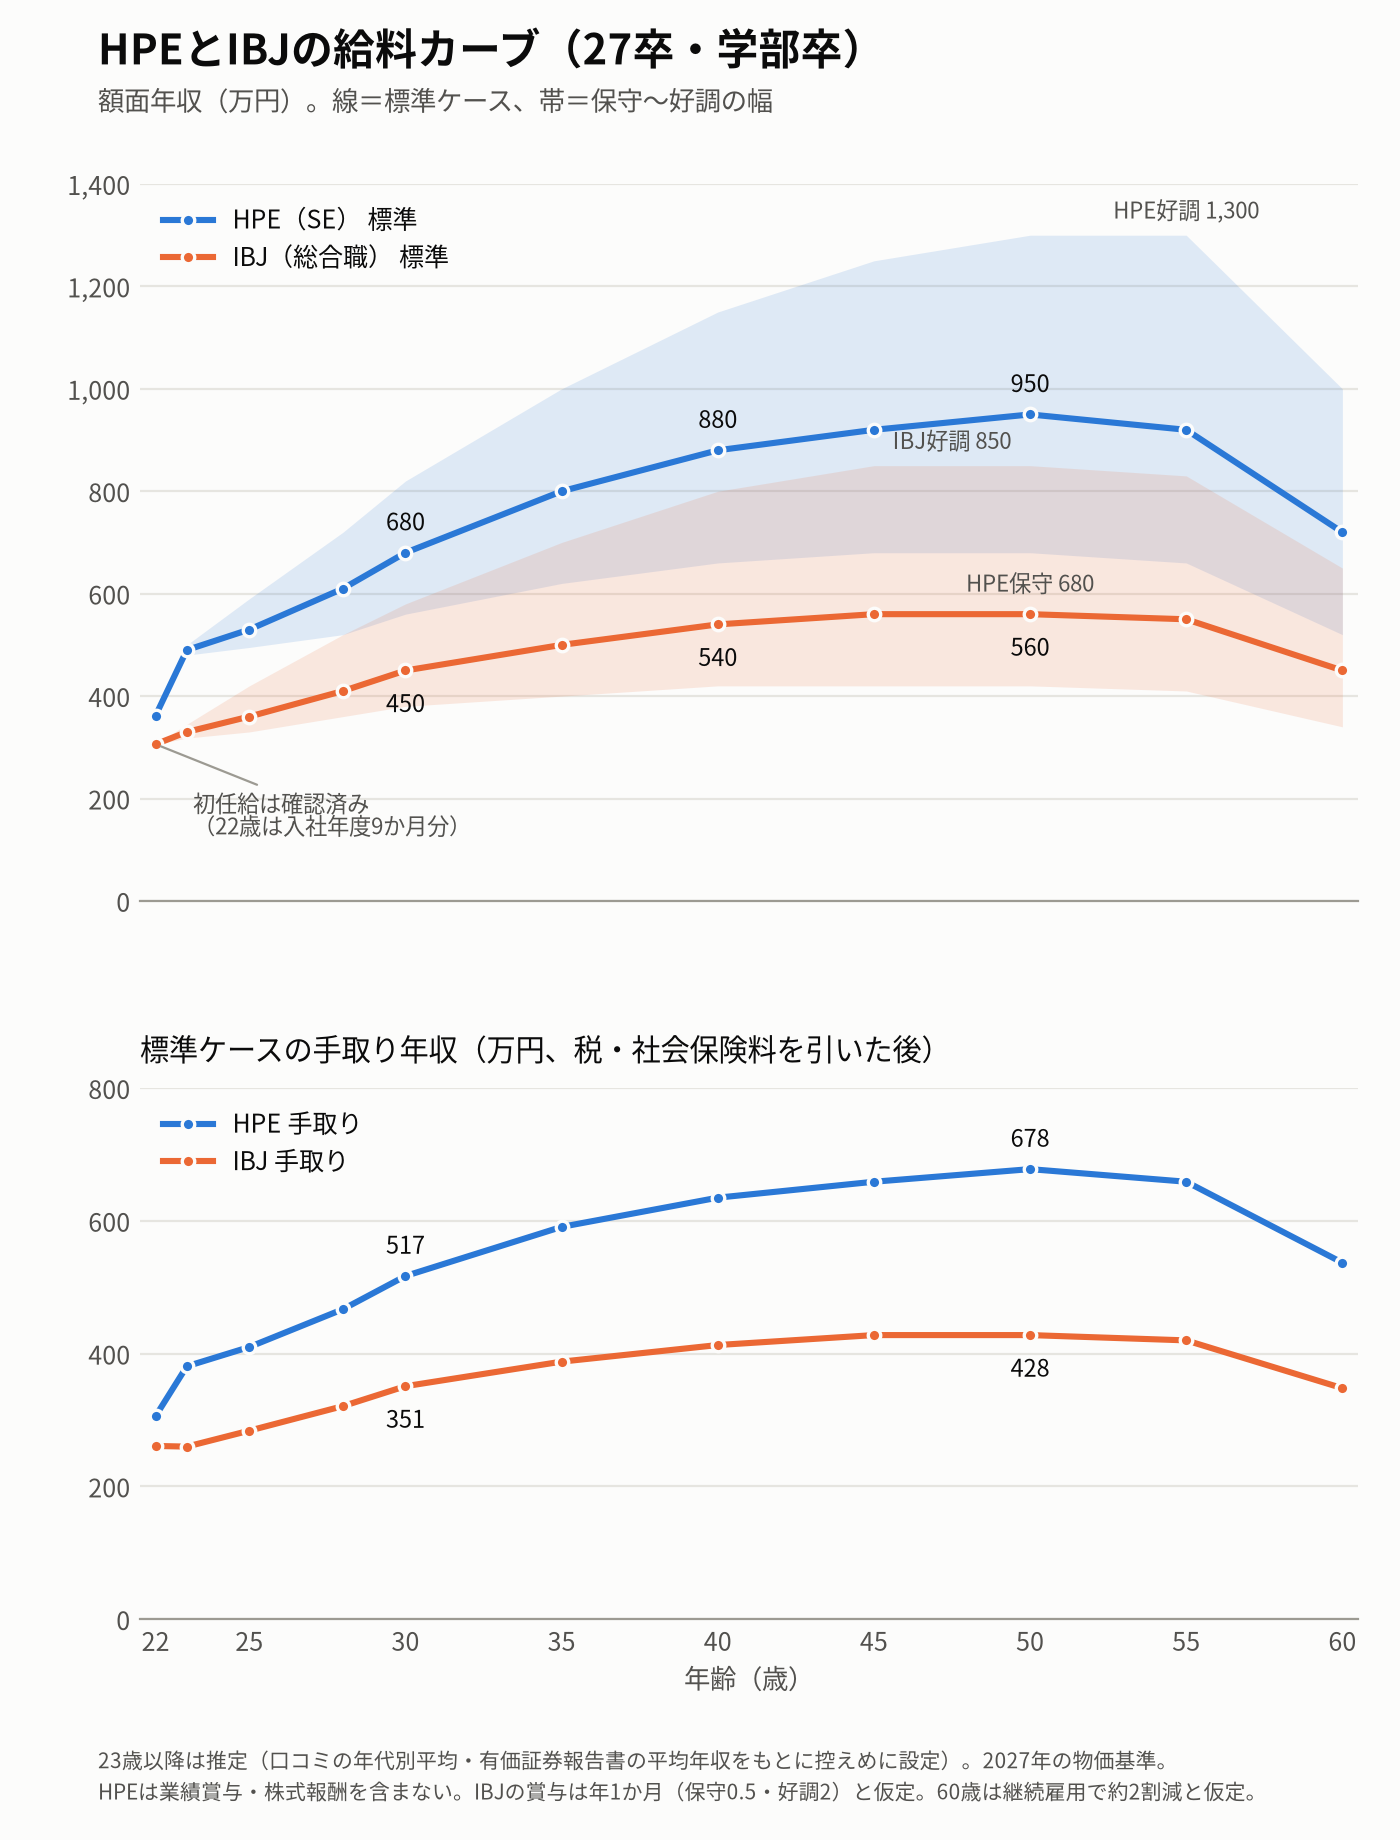
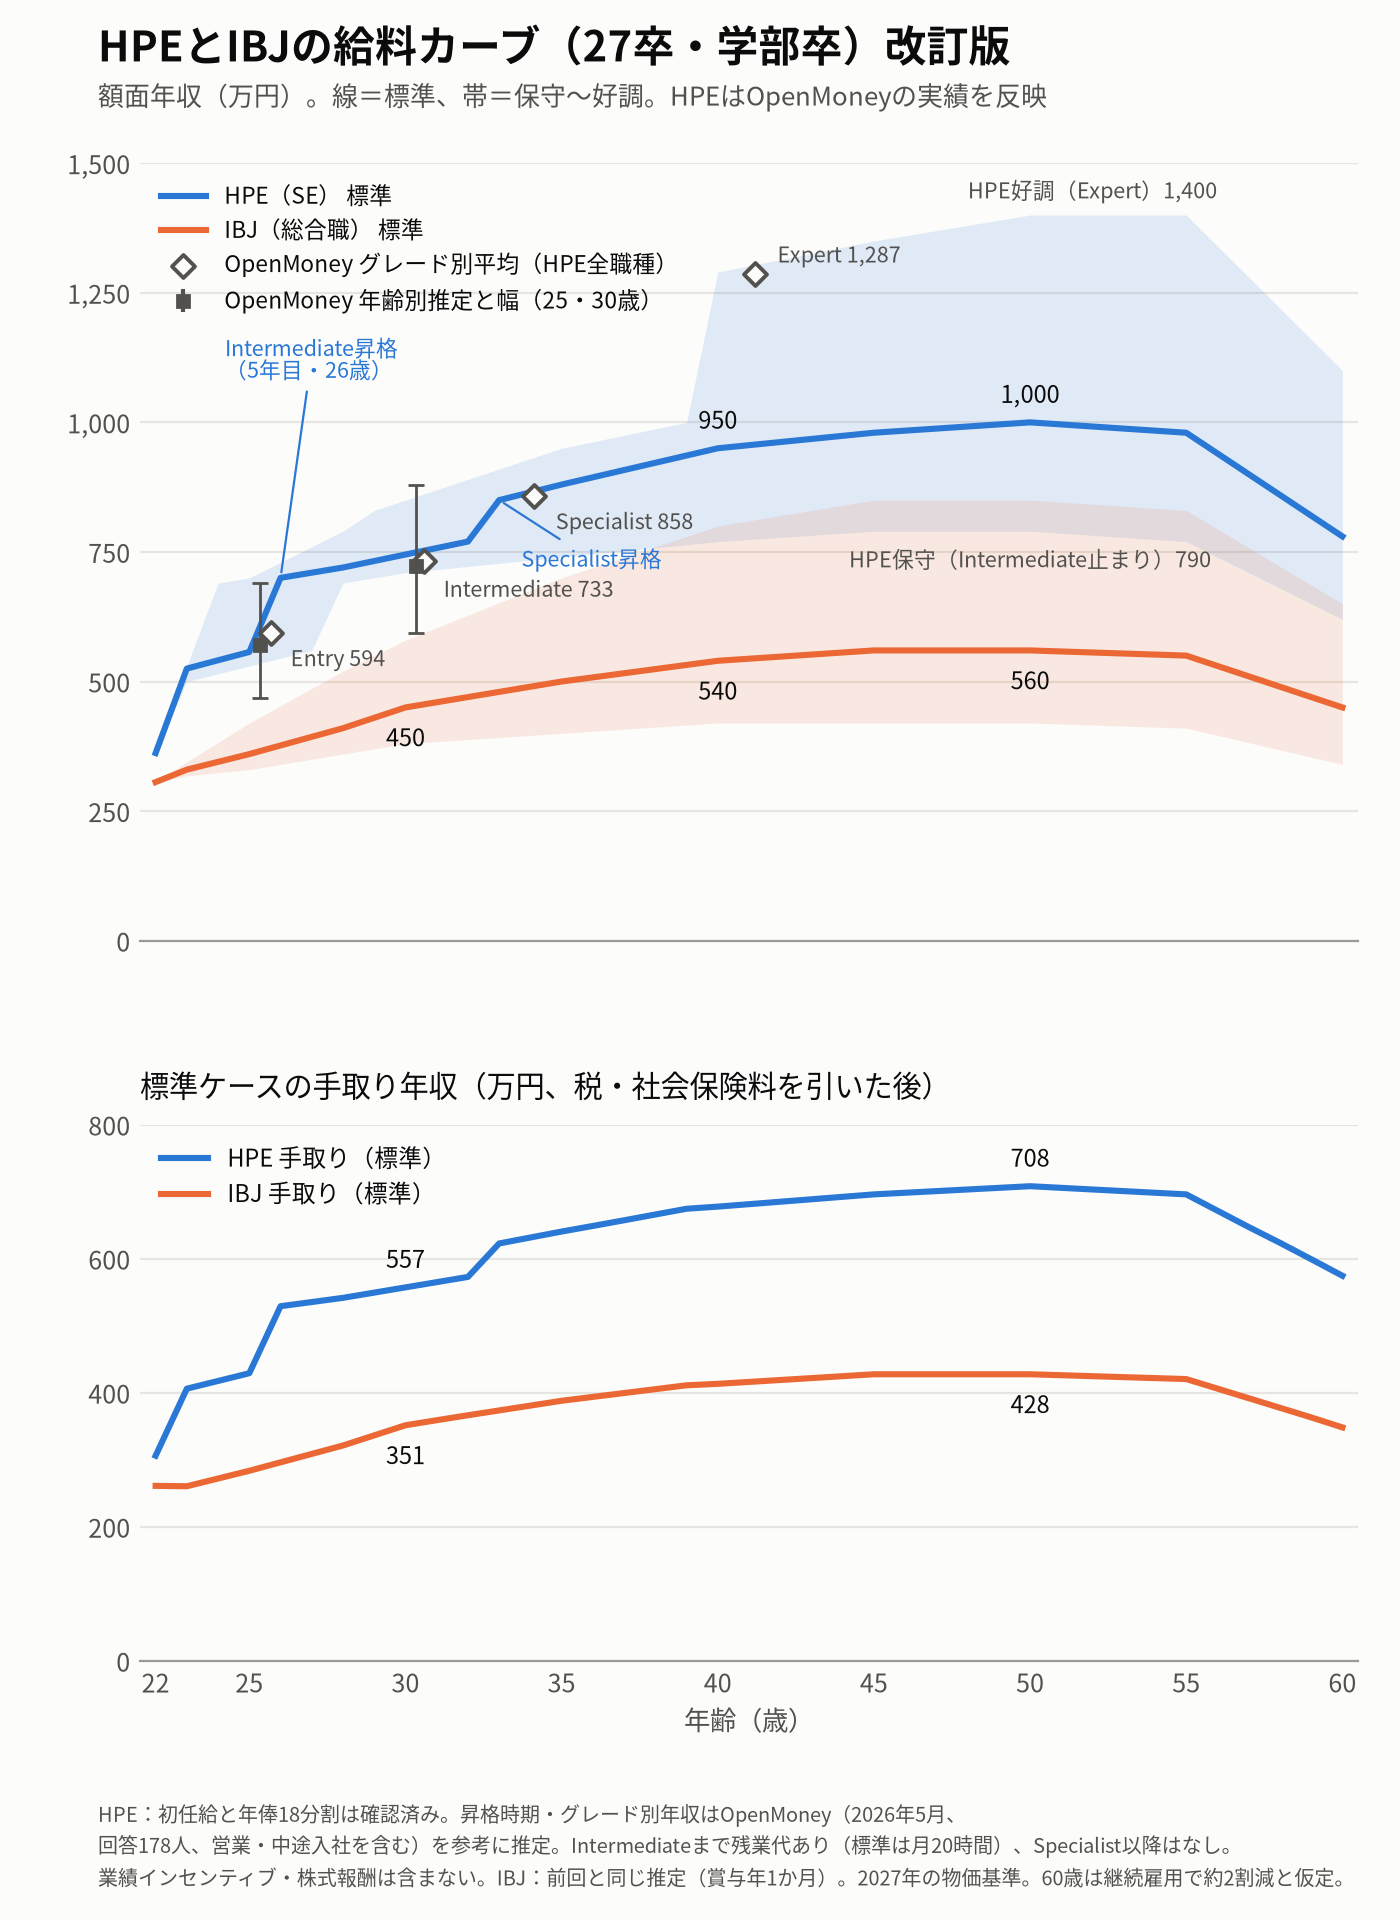
Revise HPE salary curve using OpenMoney grade data
Rebuild the HPE SE curve on the Entry/Intermediate/Specialist/Expert
grade path (promotion timing, grade-average pay, overtime paid up to
Intermediate) and overlay OpenMoney reference points on the chart.
Adds the model scripts needed to regenerate it.

Claude-Session: https://claude.ai/code/session_01DkUFM8Fn4bhHNGBbGUtUq6

diff --git a/lifeplan/salary_curve.py b/lifeplan/salary_curve.py
@@ -2,28 +2,25 @@ import matplotlib
 matplotlib.use('Agg')
 import matplotlib.pyplot as plt
 from matplotlib import font_manager as fm
+from hpe_v2 import val
+from ages import F, interp, person_net
 
-# 日本語フォント（Noto Sans CJK JP）
 for f in fm.findSystemFonts():
     if 'NotoSansCJK-Regular' in f or 'NotoSansCJK-Bold' in f:
         fm.fontManager.addfont(f)
 plt.rcParams['font.family'] = 'Noto Sans CJK JP'
 
-SURF, INK, INK2, GRID = '#fcfcfb', '#0b0b0b', '#52514e', '#e6e5e0'
+SURF, INK, INK2, GRID, REF = '#fcfcfb', '#0b0b0b', '#52514e', '#e6e5e0', '#52514e'
 HPE, IBJ = '#2a78d6', '#eb6834'
 
-ages = [22, 23, 25, 28, 30, 35, 40, 45, 50, 55, 60]
-hpe = {'cons': [362, 480, 495, 520, 560, 620, 660, 680, 680, 660, 520],
-       'std':  [362, 490, 530, 610, 680, 800, 880, 920, 950, 920, 720],
-       'good': [362, 500, 590, 720, 820, 1000, 1150, 1250, 1300, 1300, 1000]}
-ibj = {'cons': [306, 318, 330, 360, 380, 400, 420, 420, 420, 410, 340],
-       'std':  [306, 330, 360, 410, 450, 500, 540, 560, 560, 550, 450],
-       'good': [306, 345, 420, 520, 580, 700, 800, 850, 850, 830, 650]}
-take_hpe = [306, 381, 410, 467, 517, 591, 635, 659, 678, 659, 537]
-take_ibj = [261, 260, 284, 321, 351, 388, 413, 428, 428, 420, 348]
+ages = list(range(22, 61))
+hpe = {c: [val(c, a) for a in ages] for c in ('cons', 'std', 'good')}
+ibj = {c: [interp(F[c], a) for a in ages] for c in ('cons', 'std', 'good')}
+take_hpe = [306] + [person_net(val('std', a), 'HPE', a)['take'] / 1e4 for a in ages[1:]]
+take_ibj = [261] + [person_net(interp(F['std'], a), 'IBJ', a)['take'] / 1e4 for a in ages[1:]]
 
-fig, (ax1, ax2) = plt.subplots(2, 1, figsize=(7, 9.2), dpi=200, sharex=True,
-                               gridspec_kw={'height_ratios': [1.35, 1], 'hspace': 0.3})
+fig, (ax1, ax2) = plt.subplots(2, 1, figsize=(7, 9.6), dpi=200, sharex=True,
+                               gridspec_kw={'height_ratios': [1.45, 1], 'hspace': 0.28})
 fig.patch.set_facecolor(SURF)
 
 def style(ax):
@@ -37,53 +34,69 @@ def style(ax):
     ax.set_xticks([22, 25, 30, 35, 40, 45, 50, 55, 60])
     ax.set_xlim(21.5, 60.5)
 
-# 上段：額面（線＝標準、帯＝保守〜好調）
+def line(ax, y, col, label):
+    ax.plot(ages, y, color=col, linewidth=2.2, label=label, solid_joinstyle='round')
+
+# 上段：額面
 style(ax1)
 for d, col, name in ((hpe, HPE, 'HPE（SE）'), (ibj, IBJ, 'IBJ（総合職）')):
-    ax1.fill_between(ages, d['cons'], d['good'], color=col, alpha=0.14, linewidth=0)
-    ax1.plot(ages, d['std'], color=col, linewidth=2.2, marker='o', markersize=4.5,
-             markeredgecolor=SURF, markeredgewidth=1.2, label=f'{name} 標準')
-ax1.set_ylim(0, 1400)
-ax1.set_yticks(range(0, 1401, 200))
-ax1.set_yticklabels([f'{v:,}' for v in range(0, 1401, 200)])
-ax1.legend(loc='upper left', frameon=False, fontsize=9, labelcolor=INK)
+    ax1.fill_between(ages, d['cons'], d['good'], color=col, alpha=0.13, linewidth=0)
+    line(ax1, d['std'], col, f'{name} 標準')
 
-# 直接ラベル（選択した点のみ）
-for a, v in ((30, 680), (40, 880), (50, 950)):
-    ax1.annotate(f'{v}', (a, v), xytext=(0, 8), textcoords='offset points', ha='center', fontsize=8.5, color=INK)
-for a, v in ((30, 450), (40, 540), (50, 560)):
-    ax1.annotate(f'{v}', (a, v), xytext=(0, -15), textcoords='offset points', ha='center', fontsize=8.5, color=INK)
-ax1.annotate('HPE好調 1,300', (55, 1300), xytext=(0, 6), textcoords='offset points', ha='center', fontsize=8, color=INK2)
-ax1.annotate('HPE保守 680', (50, 680), xytext=(0, -14), textcoords='offset points', ha='center', fontsize=8, color=INK2)
-ax1.annotate('IBJ好調 850', (47.5, 850), xytext=(0, 6), textcoords='offset points', ha='center', fontsize=8, color=INK2)
-ax1.annotate('初任給は確認済み\n（22歳は入社年度9か月分）', (22, 306), xytext=(23.2, 130), textcoords='data',
-             fontsize=8, color=INK2, arrowprops=dict(arrowstyle='-', color='#9c9a92', linewidth=0.8))
+# OpenMoneyの実績値（参考点）
+grades = [(25.7, 594, 'Entry 594'), (30.6, 733, 'Intermediate 733'), (34.1, 858, 'Specialist 858'), (41.2, 1287, 'Expert 1,287')]
+ax1.scatter([g[0] for g in grades], [g[1] for g in grades], marker='D', s=34, facecolor=SURF,
+            edgecolor=REF, linewidth=1.4, zorder=5, label='OpenMoney グレード別平均（HPE全職種）')
+offs = {'Entry 594': (7, -12), 'Intermediate 733': (7, -13), 'Specialist 858': (8, -12), 'Expert 1,287': (8, 4)}
+for x, y, t in grades:
+    ax1.annotate(t, (x, y), xytext=offs[t], textcoords='offset points', fontsize=7.8, color=REF,
+                 ha='left')
+for x, y, lo, hi in ((25, 570, 469, 691), (30, 723, 594, 880)):
+    ax1.errorbar(x + 0.35, y, yerr=[[y - lo], [hi - y]], fmt='s', ms=4.5, color=REF, mfc=REF,
+                 elinewidth=1, capsize=3, zorder=5)
+ax1.errorbar([], [], yerr=[], fmt='s', ms=4.5, color=REF, capsize=3, label='OpenMoney 年齢別推定と幅（25・30歳）')
 
-fig.text(0.07, 0.965, 'HPEとIBJの給料カーブ（27卒・学部卒）', fontsize=15, fontweight='bold', color=INK)
-fig.text(0.07, 0.94, '額面年収（万円）。線＝標準ケース、帯＝保守〜好調の幅', fontsize=9.5, color=INK2)
+# 昇格の目安（標準）
+for a, t, dx, dy in ((26, 'Intermediate昇格\n（5年目・26歳）', -20, 72), (33, 'Specialist昇格', 8, -24)):
+    ax1.annotate(t, (a, val('std', a)), xytext=(dx, dy), textcoords='offset points', fontsize=7.8, color=HPE,
+                 arrowprops=dict(arrowstyle='-', color=HPE, linewidth=0.8))
+for a in (40, 50):
+    ax1.annotate(f'{round(val("std", a)):,}', (a, val('std', a)), xytext=(0, 7), textcoords='offset points',
+                 ha='center', fontsize=8.5, color=INK)
+for a in (30, 40, 50):
+    ax1.annotate(f'{round(interp(F["std"], a))}', (a, interp(F['std'], a)), xytext=(0, -14),
+                 textcoords='offset points', ha='center', fontsize=8.5, color=INK)
+ax1.annotate('HPE好調（Expert）1,400', (52, 1400), xytext=(0, 6), textcoords='offset points', ha='center', fontsize=7.8, color=INK2)
+ax1.annotate('HPE保守（Intermediate止まり）790', (50, 790), xytext=(0, -13), textcoords='offset points', ha='center', fontsize=7.8, color=INK2)
+
+ax1.set_ylim(0, 1500)
+ax1.set_yticks(range(0, 1501, 250))
+ax1.set_yticklabels([f'{v:,}' for v in range(0, 1501, 250)])
+ax1.legend(loc='upper left', frameon=False, fontsize=8.2, labelcolor=INK)
+
+fig.text(0.07, 0.968, 'HPEとIBJの給料カーブ（27卒・学部卒）改訂版', fontsize=15, fontweight='bold', color=INK)
+fig.text(0.07, 0.945, '額面年収（万円）。線＝標準、帯＝保守〜好調。HPEはOpenMoneyの実績を反映', fontsize=9.3, color=INK2)
 
 # 下段：手取り（標準）
 style(ax2)
-ax2.plot(ages, take_hpe, color=HPE, linewidth=2.2, marker='o', markersize=4.5,
-         markeredgecolor=SURF, markeredgewidth=1.2, label='HPE 手取り')
-ax2.plot(ages, take_ibj, color=IBJ, linewidth=2.2, marker='o', markersize=4.5,
-         markeredgecolor=SURF, markeredgewidth=1.2, label='IBJ 手取り')
+line(ax2, take_hpe, HPE, 'HPE 手取り（標準）')
+line(ax2, take_ibj, IBJ, 'IBJ 手取り（標準）')
+for a in (30, 50):
+    ax2.annotate(f'{round(take_hpe[a - 22])}', (a, take_hpe[a - 22]), xytext=(0, 7), textcoords='offset points', ha='center', fontsize=8.5, color=INK)
+    ax2.annotate(f'{round(take_ibj[a - 22])}', (a, take_ibj[a - 22]), xytext=(0, -14), textcoords='offset points', ha='center', fontsize=8.5, color=INK)
 ax2.set_ylim(0, 800)
 ax2.set_yticks(range(0, 801, 200))
-ax2.legend(loc='upper left', frameon=False, fontsize=9, labelcolor=INK)
-for a, v in ((30, 517), (50, 678)):
-    ax2.annotate(f'{v}', (a, v), xytext=(0, 8), textcoords='offset points', ha='center', fontsize=8.5, color=INK)
-for a, v in ((30, 351), (50, 428)):
-    ax2.annotate(f'{v}', (a, v), xytext=(0, -15), textcoords='offset points', ha='center', fontsize=8.5, color=INK)
+ax2.legend(loc='upper left', frameon=False, fontsize=8.5, labelcolor=INK)
 ax2.set_title('標準ケースの手取り年収（万円、税・社会保険料を引いた後）', loc='left', fontsize=10.5, color=INK, pad=10)
 ax2.set_xlabel('年齢（歳）', fontsize=9.5, color=INK2)
 
-fig.text(0.07, 0.022,
-         '23歳以降は推定（口コミの年代別平均・有価証券報告書の平均年収をもとに控えめに設定）。2027年の物価基準。\n'
-         'HPEは業績賞与・株式報酬を含まない。IBJの賞与は年1か月（保守0.5・好調2）と仮定。60歳は継続雇用で約2割減と仮定。',
-         fontsize=7.5, color=INK2, linespacing=1.5)
+fig.text(0.07, 0.018,
+         'HPE：初任給と年俸18分割は確認済み。昇格時期・グレード別年収はOpenMoney（2026年5月、\n回答178人、営業・中途入社を含む）を参考に推定。'
+         'Intermediateまで残業代あり（標準は月20時間）、Specialist以降はなし。\n業績インセンティブ・株式報酬は含まない。'
+         'IBJ：前回と同じ推定（賞与年1か月）。2027年の物価基準。60歳は継続雇用で約2割減と仮定。',
+         fontsize=7.2, color=INK2, linespacing=1.55)
 
-fig.subplots_adjust(left=0.1, right=0.97, top=0.9, bottom=0.12)
+fig.subplots_adjust(left=0.1, right=0.97, top=0.915, bottom=0.135)
 out = '/home/user/koyo1016/lifeplan/給料カーブ_HPE×IBJ.png'
 fig.savefig(out, facecolor=SURF)
 print(out)

diff --git a/lifeplan/ages.py b/lifeplan/ages.py
@@ -1,0 +1,69 @@
+from model import *
+import json
+ages=[22,23,25,28,30,35,40,45,50,55,60]
+# 額面(万円, 2027年価値, 業績賞与・RSU除く)
+A={'cons':{22:362,23:480,25:495,28:520,30:560,35:620,40:660,45:680,50:680,55:660,60:520},
+   'std': {22:362,23:490,25:530,28:610,30:680,35:800,40:880,45:920,50:950,55:920,60:720},
+   'good':{22:362,23:500,25:590,28:720,30:820,35:1000,40:1150,45:1250,50:1300,55:1300,60:1000}}
+B={'cons':{**{a:A['cons'][a] for a in (22,23,25)},28:560,30:590,35:650,40:690,45:700,50:700,55:680,60:520},
+   'std': {**{a:A['std'][a] for a in (22,23,25)},28:715,30:760,35:900,40:980,45:1020,50:1050,55:1000,60:760},
+   'good':{**{a:A['good'][a] for a in (22,23,25)},28:850,30:920,35:1150,40:1350,45:1450,50:1500,55:1450,60:1100}}
+F={'cons':{22:306,23:318,25:330,28:360,30:380,35:400,40:420,45:420,50:420,55:410,60:340},
+   'std': {22:306,23:330,25:360,28:410,30:450,35:500,40:540,45:560,50:560,55:550,60:450},
+   'good':{22:306,23:345,25:420,28:520,30:580,35:700,40:800,45:850,50:850,55:830,60:650}}
+def interp(tab,a):
+    ks=sorted(tab)
+    for i in range(len(ks)-1):
+        if ks[i]<=a<=ks[i+1]:
+            t=(a-ks[i])/(ks[i+1]-ks[i]); return tab[ks[i]]+(tab[ks[i+1]]-tab[ks[i]])*t
+    return tab[ks[-1]]
+def person_net(gross_man, kind, age):
+    g=gross_man*1e4
+    if kind=='HPE': m=g/18.84; ot=0.07*m if age<35 else 0; m=(g-ot*12)/18; b=6*m
+    elif kind=='NEW': m=g/15; ot=0; b=3*m    # 転職先: 月給×12 + 賞与3か月相当 (仮定)
+    else: m=g/13; ot=0; b=m                 # IBJ: 月給×12 + 賞与1か月 (仮定)
+    return net(m,b,2,age,2028,extra_ot=ot)
+def rent_for(age, plan):
+    if plan=='keep': return 11
+    return 11 if age<30 else 14
+def household(age, mgross, fgross, mkind, plan='up'):
+    rm=person_net(mgross,mkind,age); rf=person_net(fgross,'IBJ',age)
+    take=(rm['take']+rf['take'])/1e4
+    norm=(rm['m_take']+rf['m_take'])/1e4
+    rent=rent_for(age,plan)
+    base = 13.5+9.5 if age<30 else (15+11 if age<40 else 16+12)
+    surplus = take - (rent+base)*12
+    yutori = max(3*12, 0.4*surplus); save = surplus-yutori
+    return dict(mg=mgross,fg=fgross,mt=rm['take']/1e4,ft=rf['take']/1e4,mm=rm['m_take']/1e4,fm=rf['m_take']/1e4,
+                take=take,norm=norm,avg=take/12,rent=rent,base=base,yutori=yutori/12,save=save)
+def path(scn, case, plan='up'):
+    M = A if scn=='A' else B
+    assets=0; out={}
+    for age in range(22,61):
+        mg=interp(M[case],age); fg=interp(F[case],age)
+        kind='HPE' if (scn=='A' or age<28) else 'NEW'
+        if age==22:
+            take=(306+261) if case!='x' else 0
+            save=take-(8.5+8)*12-10; h=dict(mg=mg,fg=fg,take=take,save=save,norm=44.1,avg=take/12,rent=0,base=16.5,yutori=0,mt=306,ft=261,mm=23.0,fm=21.1)
+        else:
+            h=household(age,mg,fg,kind,plan)
+        one = 0
+        if age==23: one=135     # 同棲初期費用(標準)
+        if age==24: one=180     # 結婚式 標準型155+結婚指輪25
+        if plan=='up' and age==30: one+=90  # 住み替え初期費用
+        assets+=h['save']-one
+        h['assets']=assets; h['one']=one
+        out[age]=h
+    return out
+if __name__=='__main__':
+    res={}
+    for scn in 'AB':
+        for case in ['cons','std','good']:
+            p=path(scn,case)
+            res[f'{scn}_{case}']=p
+            print(scn,case)
+            for a in ages:
+                h=p[a]
+                print(f" {a}: M{h['mg']:.0f}/{h['mt']:.0f} F{h['fg']:.0f}/{h['ft']:.0f} HH{h['mg']+h['fg']:.0f}/{h['take']:.0f} norm{h['norm']:.1f} avg{h['avg']:.1f} rent{h['rent']} base{h['base']} yutori{h['yutori']:.1f} save{h['save']:.0f} assets{h['assets']:.0f}")
+    p=path('A','std','keep'); print('keep11', {a:round(p[a]['assets']) for a in ages})
+    json.dump({k:{a:v for a,v in p.items()} for k,p in res.items()}, open('ages.json','w'))

diff --git a/lifeplan/model.py b/lifeplan/model.py
@@ -1,0 +1,43 @@
+# 単位: 円。基準年=2027年の購買力（実質）。
+KENPO=0.0504   # 協会けんぽ東京R8: (9.85%+子育て支援金0.23%)/2
+KAIGO=0.0081   # 1.62%/2 (40-64歳)
+KOUNEN=0.0915
+KOYOU=0.005
+def si_annual(monthly, bonus_total, nbonus, age, commute=13000, cap_m=650000):
+    std = min(monthly+commute, cap_m)
+    k = KENPO + (KAIGO if age>=40 else 0)
+    per_b = bonus_total/nbonus if nbonus else 0
+    si = std*12*(KOUNEN+k) + (monthly+commute)*12*KOYOU
+    si += nbonus*(min(per_b,1500000)*KOUNEN + per_b*k) + bonus_total*KOYOU
+    return si
+def kyuyo_kojo(g):
+    if g<=1900000: return 690000
+    if g<=3600000: return g*0.3+80000
+    if g<=6600000: return g*0.2+440000
+    if g<=8500000: return g*0.1+1100000
+    return 1950000
+def itax(taxable):
+    br=[(1950000,.05,0),(3300000,.10,97500),(6950000,.20,427500),(9000000,.23,636000),(18000000,.33,1536000),(40000000,.40,2796000),(9e18,.45,4796000)]
+    t=max(0,taxable)//1000*1000
+    for lim,r,d in br:
+        if t<=lim: return max(0,(t*r-d))*1.021
+def taxes(gross, si, year=2028):
+    shotoku = gross-kyuyo_kojo(gross)
+    kiso = 620000
+    if year<=2027:
+        kiso += 420000 if shotoku<=4890000 else (50000 if shotoku<=6550000 else 0)
+    it = itax(shotoku-si-kiso)
+    rt = max(0,(shotoku-si-430000))//1000*1000*0.10 - 2500 + 5000
+    return it, max(rt,5000)
+def net(monthly, bonus_total, nbonus, age, year=2028, extra_ot=0):
+    gross = monthly*12 + bonus_total + extra_ot*12
+    si = si_annual(monthly+extra_ot, bonus_total, nbonus, age)
+    it, rt = taxes(gross, si, year)
+    take = gross-si-it-rt
+    # 通常月: 月給 - 月SI - 源泉(按分) - 住民税/12
+    k = KENPO + (KAIGO if age>=40 else 0)
+    m_si = min(monthly+extra_ot+13000,650000)*(KOUNEN+k)+(monthly+extra_ot+13000)*KOYOU
+    share = (monthly+extra_ot)*12/gross
+    m_take = monthly+extra_ot - m_si - it*share/12 - rt/12
+    b_take = take - m_take*12
+    return dict(gross=gross, si=si, it=it, rt=rt, take=take, m_take=m_take, b_take=b_take)

diff --git a/lifeplan/hpe_v2.py b/lifeplan/hpe_v2.py
@@ -1,0 +1,16 @@
+from ages import interp, person_net, F
+# OpenMoney（2026/5取得）を反映したHPE新卒SEの額面（万円）
+HPE2 = {
+ 'cons': {22:362, 23:500, 25:530, 27:560, 28:690, 30:710, 35:740, 40:770, 45:790, 50:790, 55:770, 60:620},
+ 'std':  {22:362, 23:525, 24:541, 25:557, 26:700, 28:720, 30:745, 32:770, 33:850, 35:880, 40:950, 45:980, 50:1000, 55:980, 60:780},
+ 'good': {22:362, 23:530, 24:690, 25:700, 28:790, 29:830, 30:850, 35:950, 39:1000, 40:1290, 45:1350, 50:1400, 55:1400, 60:1100},
+}
+def val(case, a):
+    tab = HPE2[case]
+    if a in tab: return tab[a]
+    return interp(tab, a)
+if __name__ == '__main__':
+    for a in [22,23,25,26,28,30,33,35,40,45,50,55,60]:
+        v = [round(val(c,a)) for c in ('cons','std','good')]
+        th = round(person_net(val('std',a),'HPE',a)['take']/1e4) if a>22 else 306
+        print(a, v, th)
